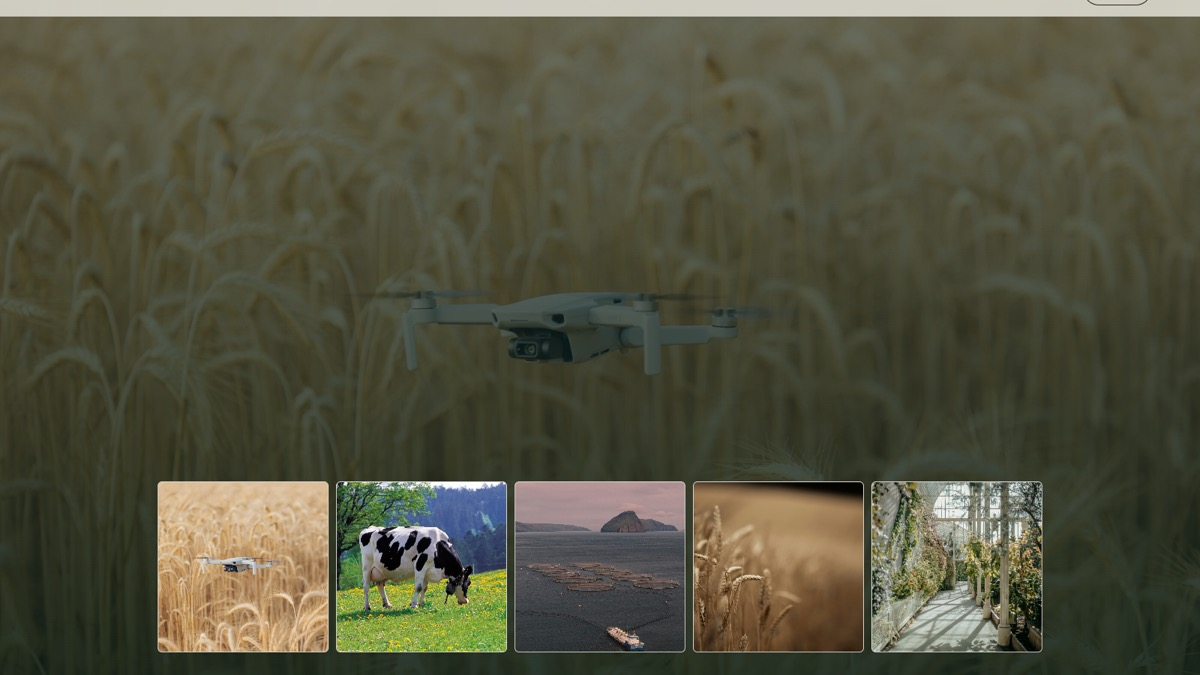
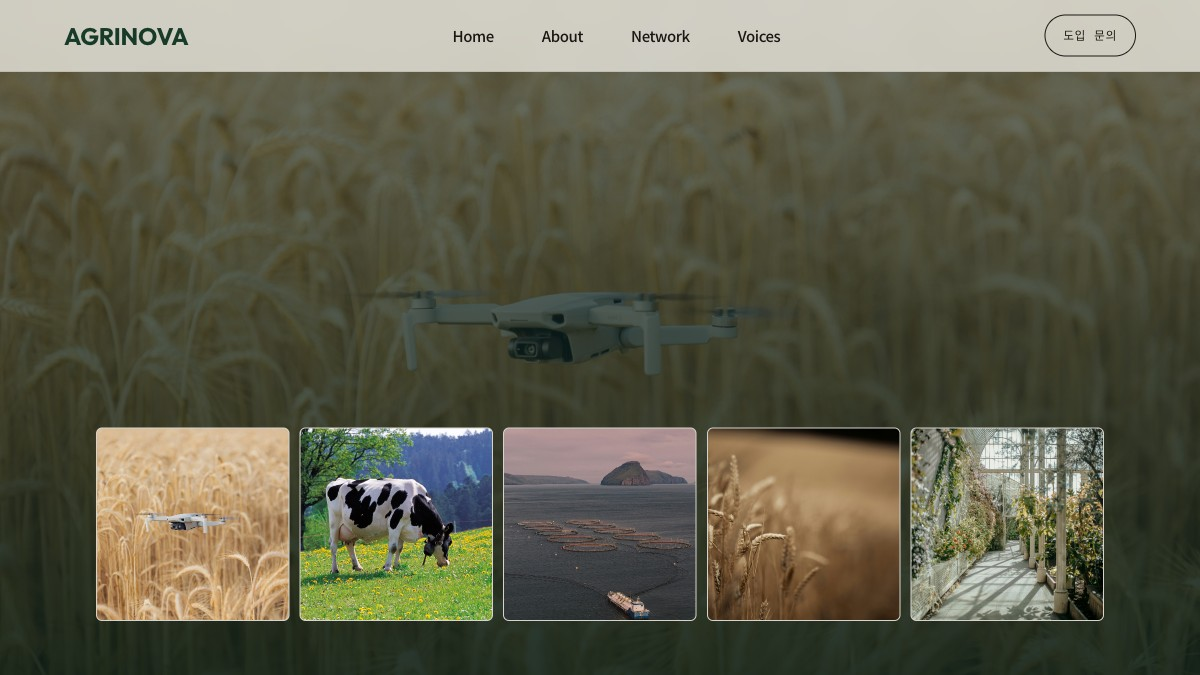
AGRINOVA: 대시 제거, 로고 한글 삭제, 통계 카드 너비 정렬, 네트워크 범례 폰트 확대, 전화문의 삭제, 썸네일 갱신

diff --git a/ai-landingpage/농축수산업/20.AGRINOVA/styles.css b/ai-landingpage/농축수산업/20.AGRINOVA/styles.css
@@ -98,7 +98,7 @@ h4,.h3{font-family:var(--font-kr);font-size:var(--fs-h3);font-weight:var(--fw-st
 .eyebrow{display:inline-flex;align-items:center;gap:var(--space-2);font-family:var(--font-mono);
   font-size:var(--fs-mono-label);font-weight:var(--fw-medium);letter-spacing:var(--mono-tracking);
   text-transform:uppercase;color:var(--text-gold);}
-.eyebrow::before{content:'';width:22px;height:1px;background:currentColor;display:inline-block;}
+.eyebrow::before{content:none;}
 
 /* ---------- container ---------- */
 .container{width:100%;max-width:var(--container-default);margin-inline:auto;padding-inline:var(--gutter);}
@@ -209,7 +209,7 @@ h4,.h3{font-family:var(--font-kr);font-size:var(--fs-h3);font-weight:var(--fw-st
   align-content:start;}
 .stat-tile{background:var(--color-canvas-raised);border:var(--border-1);border-radius:var(--radius-md);
   padding:var(--space-6) var(--space-5);}
-.stat-tile:nth-child(1){grid-column:1/3;}
+.stat-tile:nth-child(1),.stat-tile:nth-child(4){grid-column:1/3;}
 .stat-tile__num{display:flex;align-items:baseline;gap:2px;font-family:var(--font-mono);font-weight:600;
   font-size:clamp(30px,2.6vw,44px);color:var(--color-primary-700);letter-spacing:-0.01em;}
 .stat-tile__suffix{font-family:var(--font-mono);font-size:0.5em;color:var(--color-secondary-700);}
@@ -220,8 +220,8 @@ h4,.h3{font-family:var(--font-kr);font-size:var(--fs-h3);font-weight:var(--fw-st
   .about__stats{grid-column:1/13;margin-top:var(--space-8);grid-template-columns:1fr 1fr;}
 }
 @media (max-width:640px){
-  .about__stats{grid-template-columns:1fr 1fr;}
-  .stat-tile:nth-child(1){grid-column:1/2;}
+  .about__stats{grid-template-columns:minmax(0,1fr) minmax(0,1fr);}
+  .stat-tile:nth-child(1),.stat-tile:nth-child(4){grid-column:auto;}
 }
 
 /* =========================================================
@@ -237,7 +237,7 @@ h4,.h3{font-family:var(--font-kr);font-size:var(--fs-h3);font-weight:var(--fw-st
 .network__legend{margin-top:var(--space-7);display:grid;gap:var(--space-3);}
 .network__legend li{display:flex;justify-content:space-between;gap:var(--space-4);
   font-size:14px;padding-block:var(--space-2);border-bottom:1px solid rgba(250,247,240,.1);color:rgba(250,247,240,.75);}
-.network__legend li span:last-child{color:rgba(250,247,240,.42);font-family:var(--font-mono);font-size:12px;}
+.network__legend li span:last-child{color:rgba(250,247,240,.42);font-family:var(--font-mono);font-size:16px;}
 
 .globe-plate{position:relative;width:min(100%,640px);aspect-ratio:1/1;margin-inline:auto;
   border-radius:var(--radius-circle);cursor:grab;touch-action:none;

diff --git a/ai-landingpage/농축수산업/20.AGRINOVA/index.html b/ai-landingpage/농축수산업/20.AGRINOVA/index.html
@@ -17,7 +17,6 @@
   <div class="gnb__inner">
     <a class="gnb__logo" href="#home">
       <span class="gnb__logo-en">AGRINOVA</span>
-      <span class="gnb__logo-kr">아그리노바</span>
     </a>
     <nav class="gnb__nav" aria-label="주 메뉴">
       <a href="#home">Home</a>
@@ -195,7 +194,6 @@
         <p>현장 규모와 필요한 데이터 범위를 알려주시면 담당자가 1~2일 안에 연락드립니다.</p>
         <div class="contact__actions">
           <a class="contact__btn" href="mailto:contact@agrinova.co.kr">이메일로 문의하기</a>
-          <a class="contact__tel" href="tel:15442018">전화 문의 1544-2018</a>
         </div>
       </div>
       <div class="contact__media" data-reveal aria-hidden="true">
@@ -215,9 +213,9 @@
         <div class="footer__info">
           <p><strong>대표이사</strong> 정하늘</p>
           <p><strong>주소</strong> 강원특별자치도 홍천군 농공단지길 48, 아그리노바타워 5층</p>
-          <p><strong>대표전화</strong> 1544-2018 &nbsp;|&nbsp; <strong>팩스</strong> 033-745-2018</p>
+          <p><strong>대표전화</strong> 1544 2018 &nbsp;|&nbsp; <strong>팩스</strong> 033 745 2018</p>
           <p><strong>이메일</strong> contact@agrinova.co.kr</p>
-          <p><strong>사업자등록번호</strong> 218-86-00354</p>
+          <p><strong>사업자등록번호</strong> 218 86 00354</p>
         </div>
       </div>
       <div class="footer__sns">
@@ -232,7 +230,7 @@
         </a>
       </div>
     </div>
-    <p class="footer__bottom">&copy; 2018-2026 AGRINOVA Inc. All rights reserved.</p>
+    <p class="footer__bottom">&copy; 2026 AGRINOVA Inc. All rights reserved.</p>
   </div>
 </footer>
 
